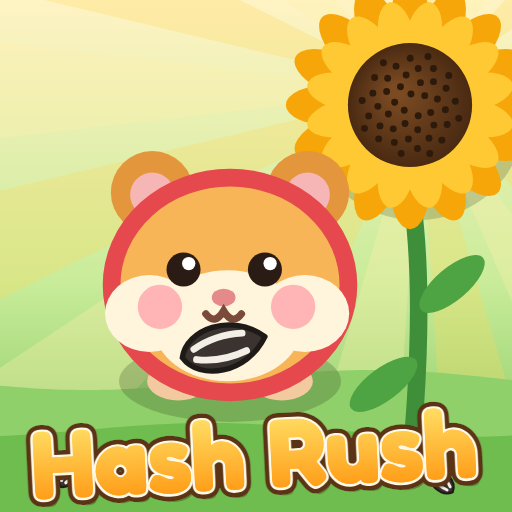
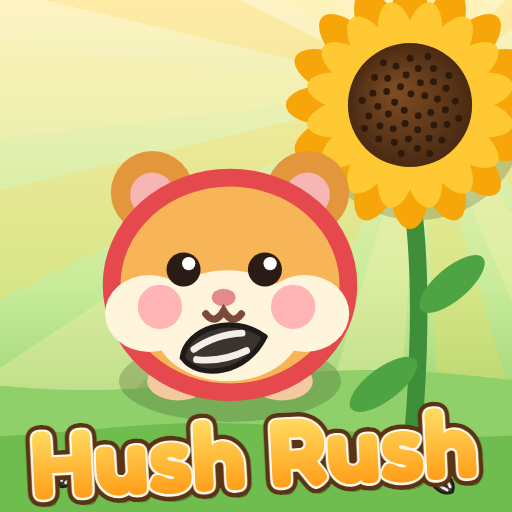
Roblox: call the game Hush Rush there
Roblox's name filter turns down "Hash Rush" (it seems to read "hash"
as drug slang), so on Roblox the game is Hush Rush, which sounds close.
The lobby's title and the store's icon and thumbnails say so; the code
and file names stay HashRush.

diff --git a/roblox/tools/store/art.html b/roblox/tools/store/art.html
@@ -20,6 +20,8 @@
       const query = new URLSearchParams(location.search);
       const kind = query.get('kind') || 'thumb';
       const lang = query.get('lang') || 'en';
+      // Roblox's name filter turns down "Hash", so the game is Hush Rush there.
+      const NAME = 'Hush Rush';
       const TAGLINE = { en: 'Grab a seed and race home!', ko: '해씨 물고 집으로 달려라!' };
       await document.fonts.load('700 150px Fredoka');
 
@@ -156,7 +158,7 @@
         drawSeed(ctx, 440, 480, 2.2, -0.8);
         // One hamster up close with a seed in its mouth.
         hamster(0, 230, 285, 7.4, { fx: -0.3, fy: 0.45, moving: false, carrying: true, t: 0, shadow: false });
-        title('Hash Rush', W / 2, 488, 96, 'center');
+        title(NAME, W / 2, 488, 96, 'center');
       } else {
         // The link preview's scene, made 16:9 and 1.6 times as big.
         ctx.scale(1.6, 1.6);
@@ -170,9 +172,9 @@
         sunflower(995, 215 + dy, 3.4, h);
         hill(w, h, 520 + dy, 10, '#6fbd4e', 2.1);
         ctx.font = '700 168px Fredoka';
-        const titleW = ctx.measureText('Hash Rush').width;
+        const titleW = ctx.measureText(NAME).width;
         const left = 115;
-        title('Hash Rush', left, 250 + dy, 168);
+        title(NAME, left, 250 + dy, 168);
         tagline(TAGLINE[lang] || TAGLINE.en, left + titleW / 2, 340 + dy, 54);
         [[150, 645, 0.4], [430, 657, -0.9], [700, 643, 1.2], [1080, 650, 0.2], [880, 605, -0.5]].forEach(([x, y, r]) => drawSeed(ctx, x, y, 2.2, r));
         const runners = [

diff --git a/roblox/README.md b/roblox/README.md
@@ -1,4 +1,6 @@
-# Hash Rush 로블록스판
+# Hash Rush 로블록스판 (Hush Rush)
+
+로블록스에서는 이름이 **Hush Rush**입니다. "Hash"가 로블록스 이름 검열에 걸려서(마약 은어로 보는 듯) 발음이 비슷한 이름으로 바꿨고, 게임 안 제목과 스토어 그림도 이 이름입니다. 코드와 파일 이름은 그대로 HashRush입니다.
 
 웹판 규칙을 로블록스에 탑뷰로 옮긴 버전입니다. 초원 맵 1개, 개인전·팀전, 최대 8명(빈자리는 봇). 한국어·영어.
 
@@ -80,7 +82,7 @@ Workspace의 `StreamingEnabled`와 Players의 `CharacterAutoLoads`는 꺼져 있
 
 1. **게시**: Studio에서 `HashRush.rbxlx`를 열고 File → Publish to Roblox. 소유자는 소리 4개를 올린 계정(Asset Manager의 HashChat)과 **같게** 합니다. 다르면 소리가 나지 않습니다(다른 소유자면 오디오 권한을 따로 줘야 함). 새 경험은 비공개로 만들어집니다.
 2. **크리에이터 대시보드 → 경험 설정**
-   - 이름 `Hash Rush`, 설명은 아래 글, 장르 Party & Casual.
+   - 이름 `Hush Rush`(`Hash Rush`는 검열에 걸림), 설명은 아래 글, 장르 Party & Casual.
    - 아이콘 `roblox/store/icon.png`, 썸네일 `thumb-en.png`. 현지화 설정에서 한국어 썸네일로 `thumb-ko.png`, 한국어 이름·설명도 넣을 수 있습니다.
    - 기기: 컴퓨터·휴대폰·태블릿. 콘솔은 끕니다(대기실 버튼을 패드로 고를 수 없음).
    - 장소 → 서버 크기 **8**(자리가 8개, 넘치는 사람은 관전).
